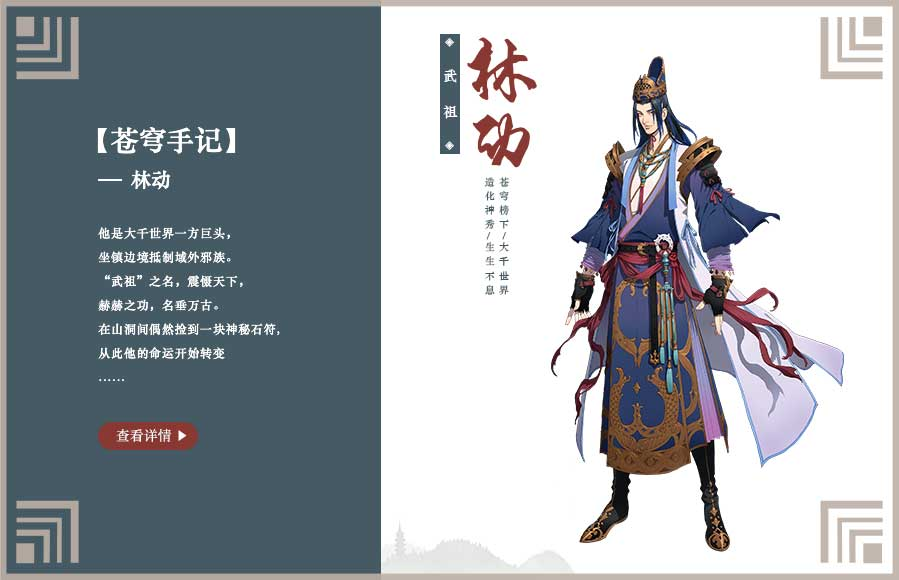
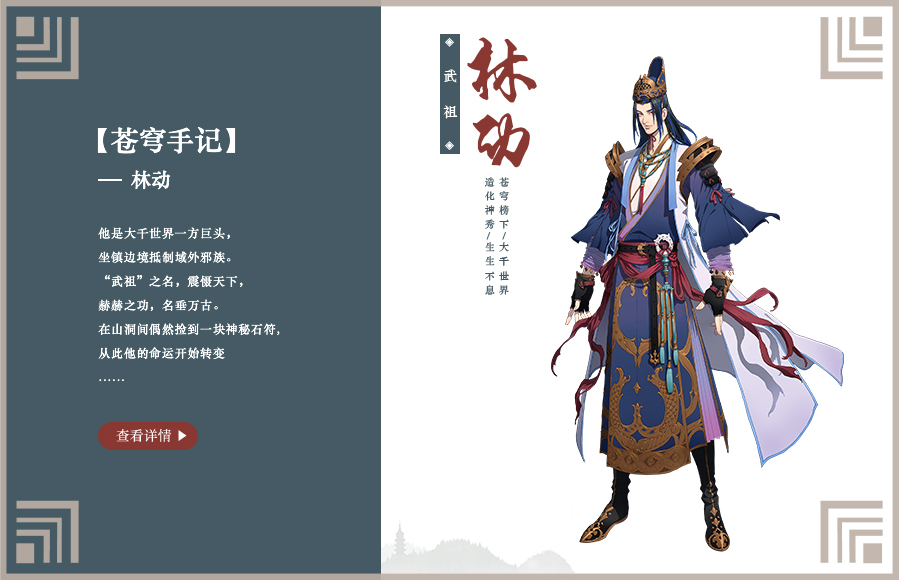
asd Signed-off-by: Your Name <you@example.com>

diff --git a/my-project/src/components/silder.vue b/my-project/src/components/silder.vue
@@ -1,7 +1,7 @@
 <template>
 	
   <el-carousel :interval="5000" arrow="always" :autoplay="false">
-    <el-carousel-item v-for="item in imglist" :key="2">
+    <el-carousel-item v-for="item in imglist" :key="4">
       <img :src="item.src" class="pic" @click="jump(item.index)"/>
     </el-carousel-item>
   </el-carousel>
@@ -52,12 +52,12 @@ export default {
 <!-- Add "scoped" attribute to limit CSS to this component only -->
 <style>
  .people .el-carousel__container{
-  	height: 587px;
+  	height: 580px;
   	text-align: center;
   }
   .people .pic{
-  	width: 910px;
-  	height: 587px;
+  	width: 889px;
+  	height: 580px;
   	
   }
  .people .el-icon-arrow-right:before{

diff --git a/my-project/src/components/start.vue b/my-project/src/components/start.vue
@@ -77,7 +77,7 @@ export default {
 		position: relative;
 		background:url(../../static/shouye/renwu1.png) no-repeat;
 		background-size:100%;
-		min-height: 500px;
+		min-height: 580px;
 		box-sizing: border-box;
 		padding-top: 25%;
 		
@@ -92,7 +92,7 @@ export default {
 	}
 	.renwu{
 		width: 1200px;
-		height: 587px;
+		height: 580px;
 		margin: 0 auto;
 	}
 	.fwzhi{

diff --git a/my-project/src/App.vue b/my-project/src/App.vue
@@ -14,5 +14,4 @@ export default {
 </script>
 
 <style>
-
 </style>
